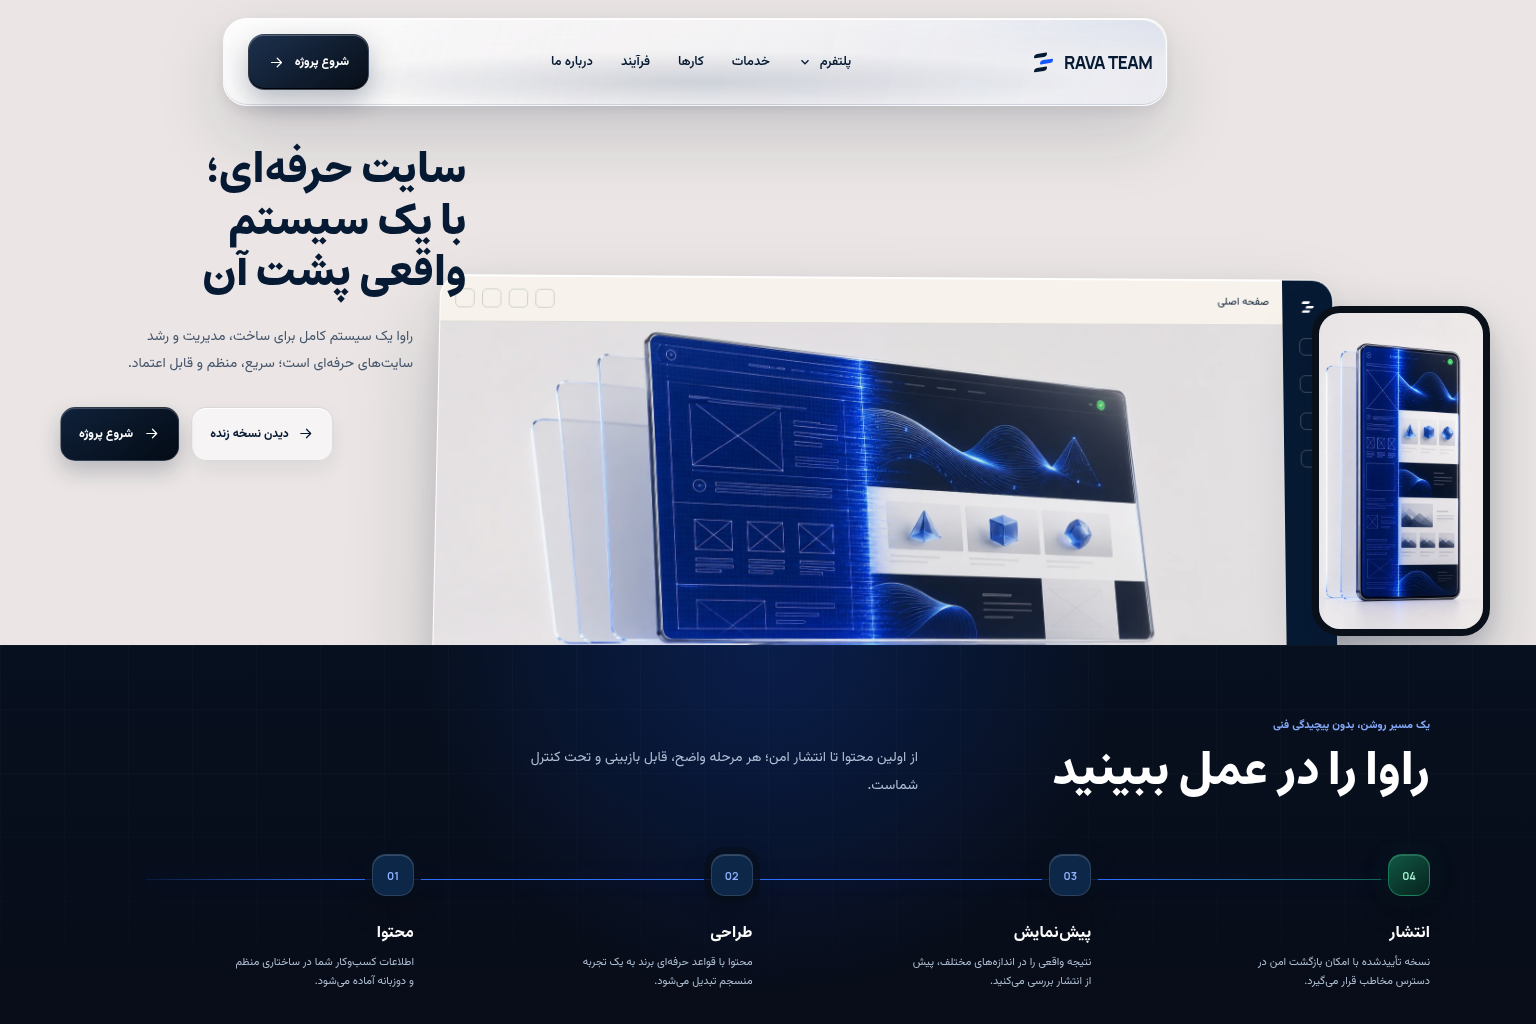
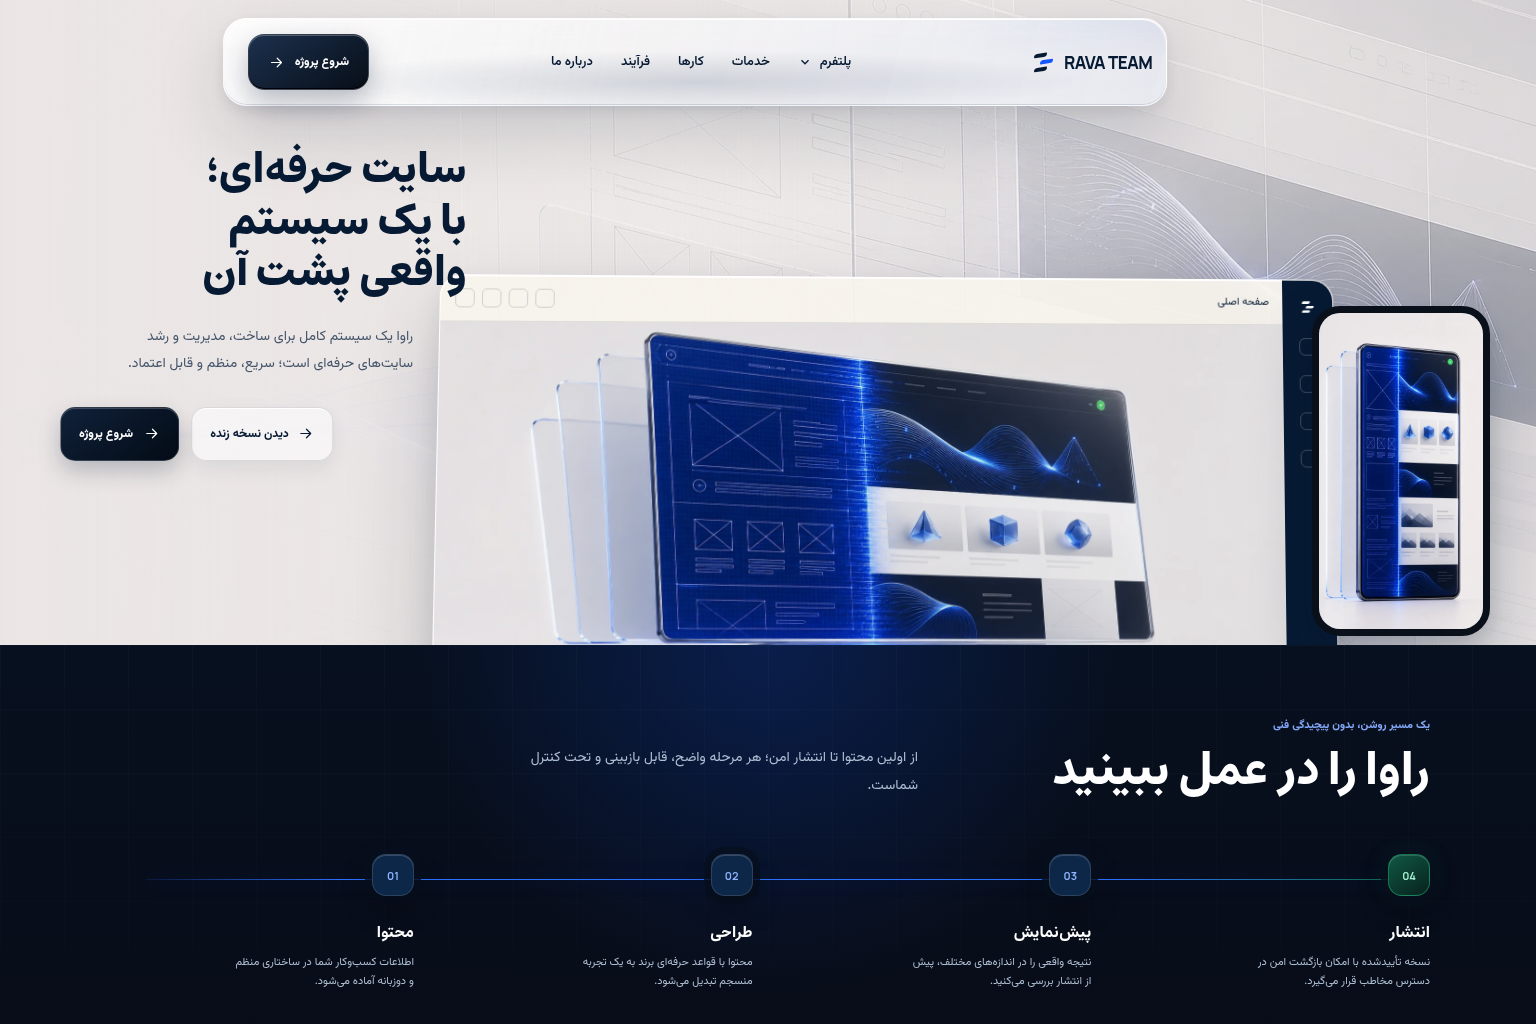
feat(design): art direct flagship creative workspace

Changed region(s): [[0.6562, 0.125, 1.0, 0.4375], [0.9688, 0.0, 1.0, 0.0312]]

diff --git a/app/components/rava-living-system.module.css b/app/components/rava-living-system.module.css
@@ -163,3 +163,10 @@
 .stepScreen{backdrop-filter:none}
 @media(max-width:820px){.editor{background-image:image-set(url('/templates/rava-living-system/editor-site-visual.webp') type('image/webp'),url('/templates/rava-living-system/editor-site-visual.png') type('image/png'))}}
 @media(prefers-reduced-transparency:reduce){.navbar,.mega{backdrop-filter:none;background:#f2f2f4}.stepScreen{background:#101a2c}}
+
+/* RAVA creative workspace ground: product-relevant atmosphere, never empty filler. */
+.hero{isolation:isolate;background:#ebe6e5}
+.hero::before{content:"";position:absolute;z-index:-2;inset:0;background-image:image-set(url('/templates/rava-living-system/hero-workspace-background.webp') type('image/webp'),url('/templates/rava-living-system/hero-workspace-background.png') type('image/png'));background-position:center 28%;background-size:cover;opacity:.58;pointer-events:none}
+.hero::after{content:"";position:absolute;z-index:-1;inset:0;background:linear-gradient(90deg,rgba(235,230,229,.96) 0,rgba(235,230,229,.84) 19%,rgba(235,230,229,.38) 38%,rgba(235,230,229,.08) 66%),linear-gradient(180deg,rgba(235,230,229,.18),transparent 42%,rgba(235,230,229,.36));pointer-events:none}
+[dir="rtl"] .hero::after{background:linear-gradient(90deg,rgba(235,230,229,.96) 0,rgba(235,230,229,.84) 19%,rgba(235,230,229,.38) 38%,rgba(235,230,229,.08) 66%),linear-gradient(180deg,rgba(235,230,229,.18),transparent 42%,rgba(235,230,229,.36))}
+@media(max-width:820px){.hero::before{background-position:62% top;opacity:.4}.hero::after,[dir="rtl"] .hero::after{background:linear-gradient(180deg,rgba(235,230,229,.88) 0,rgba(235,230,229,.72) 37%,rgba(235,230,229,.2) 68%,rgba(235,230,229,.44))}}

diff --git a/docs/PROJECT_STATUS.md b/docs/PROJECT_STATUS.md
@@ -55,7 +55,7 @@ It is a maintained snapshot, not proof by itself. GitHub, the repository, CI, St
 
 ## Active workstream
 
-The current workstream is implementation of owner-approved RAVA Living System D as the RAVA TEAM Customer Zero flagship Template. Four product-centered concepts in the shared RAVA Digital Atelier family are permanently preserved in `docs/RAVA_FLAGSHIP_PRESET_ROADMAP.md`; A, B and C are future sequential Presets. The first CMS-compatible Hero implementation and an environment-gated local design-preview route now exist. On 2026-09-01 the rejected interior still life was replaced again with a cleaner bespoke product plate: one coherent website canvas transforms from blueprint to a finished digital-agency site, using RAVA's pearl, deep-navy, cobalt and verified-green material language. The coded Navbar and Mega Menu now use layered optical-glass highlights, depth shadows and reduced-motion-safe entry. Three real-browser Hero critique passes at 1536px and 390px removed duplicated device props, separated the product canvas from the Hero copy, tightened the mobile composition, added an actual mobile glass menu and removed an ambiguous icon-only mobile CTA. The `RAVA in action` section was then rebuilt as a cinematic four-act operating journey with distinct content, design, responsive-preview and safe-publish visuals; desktop/mobile browser review added a connected mobile progress rail and corrected the verified-release mark. A dedicated performance pass replaced the browser-delivered 3.2 MiB PNG pair with visually reviewed WebP assets totaling 196,634 bytes, removed unnecessary persistent blur work, deferred below-fold rendering and added a CI-enforced 220 KiB Hero-media budget. Chromium selected only WebP; the Template had zero Canvas/WebGL elements and zero continuous animation loops. This is still not an accepted full Template release: the remaining page family and content sections are not implemented, and the existing Impeccable Hero Gate remains at 56%, below its 72% threshold, because the approved Comp bitmap still depicts the superseded interior plate. The latest 2026-09-01 repository Gates passed: feature standards, RPIM verification for 16 features/259 scoped files, the new performance budget, TypeScript and the Next.js production Build. The earlier Horizon v2 candidate remains rollback-safe but is not accepted as the flagship visual direction.
+The current workstream is implementation of owner-approved RAVA Living System D as the RAVA TEAM Customer Zero flagship Template. Four product-centered concepts in the shared RAVA Digital Atelier family are permanently preserved in `docs/RAVA_FLAGSHIP_PRESET_ROADMAP.md`; A, B and C are future sequential Presets. The first CMS-compatible Hero implementation and an environment-gated local design-preview route now exist. On 2026-09-01 the rejected interior still life was replaced again with a cleaner bespoke product plate: one coherent website canvas transforms from blueprint to a finished digital-agency site, using RAVA's pearl, deep-navy, cobalt and verified-green material language. The coded Navbar and Mega Menu now use layered optical-glass highlights, depth shadows and reduced-motion-safe entry. Three real-browser Hero critique passes at 1536px and 390px removed duplicated device props, separated the product canvas from the Hero copy, tightened the mobile composition, added an actual mobile glass menu and removed an ambiguous icon-only mobile CTA. The `RAVA in action` section was then rebuilt as a cinematic four-act operating journey with distinct content, design, responsive-preview and safe-publish visuals; desktop/mobile browser review added a connected mobile progress rail and corrected the verified-release mark. A dedicated performance pass replaced the browser-delivered PNG pair with visually reviewed WebP assets, removed unnecessary persistent blur work, deferred below-fold rendering and added a CI-enforced media budget. In response to owner review that the upper Hero still felt visually empty, a bespoke 88 KiB creative-workspace background was added: translucent web-layout grids, content architecture and a restrained cobalt publishing signal now support the foreground without reducing copy contrast. The three delivered Hero assets total 285,450 bytes under the revised 320 KiB Gate; Chromium review at desktop and mobile confirmed the intended composition. The Template has zero Canvas/WebGL elements and zero continuous animation loops. This is still not an accepted full Template release: the remaining page family and content sections are not implemented, and the old Impeccable Hero Gate result is invalid against the superseded interior Comp. The latest 2026-09-01 repository Gates passed: feature standards, RPIM verification for 16 features/266 scoped files, the performance budget, TypeScript and the Next.js production Build. The earlier Horizon v2 candidate remains rollback-safe but is not accepted as the flagship visual direction.
 
 ## Known incomplete work and risks
 

diff --git a/docs/FRONTEND_PERFORMANCE_BUDGET.md b/docs/FRONTEND_PERFORMANCE_BUDGET.md
@@ -5,7 +5,7 @@ RAVA must remain visually distinctive without turning presentation into continuo
 ## Flagship baseline
 
 - Pre-compress production imagery at build time; do not make the application server transform the same static Hero asset on every cold cache.
-- Keep the combined RAVA Living System Hero media at or below 220 KiB and each delivered asset at or below 120 KiB. Source PNG files may remain for reproduction, but browsers must prefer the budgeted WebP assets.
+- Keep the combined RAVA Living System Hero media at or below 320 KiB and each delivered asset at or below 120 KiB. This includes the product-relevant creative-workspace background; source PNG files may remain for reproduction, but browsers must prefer the budgeted WebP assets.
 - Do not add a continuous RAF, WebGL, canvas, marquee or timer loop to a static Template. An exception requires a measured product benefit, viewport/visibility gating, reduced-motion fallback, cleanup on unmount and a separate performance review.
 - Restrict expensive optical effects. Persistent `backdrop-filter` is reserved for compact navigation surfaces; large below-fold panels use precomposed gradients and borders instead.
 - Defer below-fold rendering with `content-visibility` where layout stability can be preserved with an intrinsic-size fallback.
@@ -25,7 +25,7 @@ CI enforces the repository-owned asset budget. Browser profiling remains require
 ## 2026-09-01 measured reference
 
 - Desktop Hero media selected by Chromium: `editor-site-visual.webp` and `responsive-site-visual.webp`.
-- Combined decoded transfer payload: approximately 197 KiB, down from approximately 3.2 MiB of source PNG imagery.
+- Combined delivered Hero imagery after adding the creative-workspace background: approximately 279 KiB, while the three source PNG files total approximately 5.1 MiB.
 - Template CSS transfer observed in the local design-preview route: approximately 8 KiB.
 - Canvas/WebGL elements: zero.
 - Mobile running animations after load: zero.

diff --git a/docs/DECISION_LOG.md b/docs/DECISION_LOG.md
@@ -92,7 +92,7 @@ If a decision changes, add a new entry that explicitly supersedes the old entry;
 ## 2026-09-01 — Premium visuals must remain inside an enforced performance budget
 
 - **Decision:** Treat frontend performance as a release Gate for RAVA Templates. Static Hero imagery is pre-compressed, delivered without runtime image-transformation work, and checked against repository-owned byte budgets in CI.
-- **Initial budget:** RAVA Living System Hero media must remain at or below 220 KiB combined and 120 KiB per delivered asset. Source-quality files may remain for reproduction but must not be the normal browser payload.
+- **Current budget:** RAVA Living System Hero media must remain at or below 320 KiB combined and 120 KiB per delivered asset. The increase from the initial 220 KiB budget explicitly funds the owner-requested, product-specific creative-workspace background; source-quality files may remain for reproduction but must not be the normal browser payload.
 - **Runtime boundary:** Static Templates do not receive continuous RAF, WebGL, canvas, marquee or timer loops by default. Any future exception requires measured value, visibility gating, reduced-motion fallback, complete cleanup and a separate performance review.
 - **Reason:** RAVA must deliver world-class visual quality without unnecessary server transformation cost, mobile jank, long-session CPU/GPU load or uncontrolled asset growth.
 - **Source:** `docs/FRONTEND_PERFORMANCE_BUDGET.md`, `config/frontend-performance-budgets.json`
